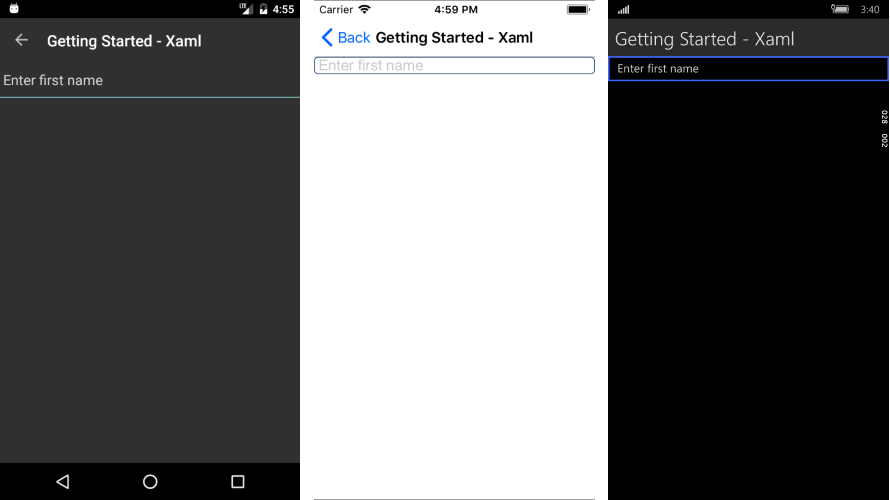
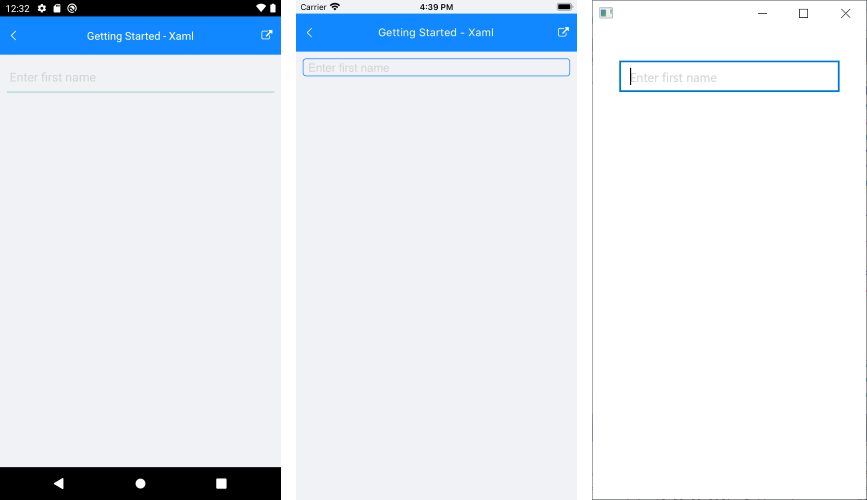
Updated RadEntry docs

diff --git a/controls/entry/entry-text-appearance.md b/controls/entry/entry-text-appearance.md
@@ -1,0 +1,80 @@
+---
+title: Text Appearance
+page_title: .NET MAUI Entry Documentation | Text Appearance
+description: Check our &quot;Text Appearance&quot; documentation article for Telerik Entry for .NET MAUI control.
+position: 2
+slug: entry-text-appearance
+---
+
+# Text Appearance
+
+The purpose of this help article is to show you the key features of the **RadEntry** control related to text appearance. 
+
+## Text
+
+The following properties are related to the Entry Text appearance and alignment:
+
+* **Text**(*string*): Defines the Text;
+* **TextColor**(*Color*): Defines the color of the visible text of the RadEntry control.
+* **VerticalTextAlignment**(*of type Xamarin.Forms.TextAlignment*): Specifies the vertical alignment of the RadEntry.Text;
+* **HorizontalTextAlignment**(*of type Xamarin.Forms.TextAlignment*): Specifies the horizontal alignment of the RadEntry.Text;
+* **Padding**(*Thickness*): Defines the Padding of the text;
+
+## Watermark 
+
+RadEntry exposes **WatermarkText**(*string*) property used to give guidance to the end user on what should be entered in the text input. The watermark text is displayed when the control is empty.  Additionally, you could set **WatermarkTextColor**(*Color*) to customize the look of the watermark text. 
+
+```XAML
+<telerikInput:RadEntry WatermarkText="First Name" 
+					   WatermarkTextColor="#6EA3FF" />
+```
+
+Where:
+
+```XAML
+xmlns:telerikInput="clr-namespace:Telerik.XamarinForms.Input;assembly=Telerik.Maui.Compatibility"
+```
+
+![Entry with Watermark](images/entry_watermark.png)
+
+## Read-Only State
+
+RadEntry control provides a feature which allows you to choose whether the control will be editable or not - Read-Only state.
+
+* **IsReadOnly** *bool* property: Specifies whether the control will be in edit mode. The default value is `False`. If you want to restrict the control from editing, set the `IsReadOnly` to `True`
+
+```XAML
+<telerikInput:RadEntry x:Name="telerikEntry" 
+					   Text="Telerik UI for Xamarin Entry control" 
+					   IsReadOnly="True" />
+```
+
+## Max Length
+
+With RadEntry you can restrict the number of the symbols allowed to be entered in the input field. 
+
+* **MaxLength** (*int*) property: Specifies the maximum number of symbols allowed to be entered.
+
+### Example with MaxLength set to 10
+
+```XAML
+<telerikInput:RadEntry x:Name="telerikEntry" 
+					   WatermarkText="Enter text" 
+					   MaxLength="10" />
+```
+
+## Keyboard
+
+The **Keyboard** property of type *Xamarin.Forms.Keyboard* allows you to define the type of the keyboard that will be visualized by the device.
+
+```XAML
+<telerikInput:RadEntry x:Name="entry" 
+                       Keyboard="Numeric"
+                       WatermarkText="Watermark Text" />
+```
+
+## See Also
+
+- [Text Selection]({%slug entry-text-selection %})
+- [Events]({% slug entry-events%})
+- [Styling]({% slug entry-styling%})

diff --git a/controls/entry/entry-overview.md b/controls/entry/entry-overview.md
@@ -18,15 +18,15 @@ If you are new to RadEntry, see the [Getting Started]({% slug entry-getting-star
 
 ## Key features
 
-* **Watermark**: RadEntry allows you to add a hint text as a placeholder in the control. You can use this text to guide the users what is the expected input. For more details, see the [Key Features]({% slug entry-key-features %}#watermark) article.
-* **Password functionality**: You can hide the characters that users type for privacy and security reasons. For more details, see the [Key Features]({% slug entry-key-features %}#password) article.
+* **Watermark**: RadEntry allows you to add a hint text as a placeholder in the control. You can use this text to guide the users what is the expected input. For more details, see the [Text Appearance]({% slug entry-text-appearance%}#watermark) article.
 * **Keyboard support**: You can add a virtual keyboard and specify its type, for example, `Numeric`.
-* **Non-Editable (Read-Only) state**: Using a single property - `IsReadOnly`, you can specify whether the RadEntry control can be edited or not. Example and explanation can be found in [Key Features - Read-Only State]({%slug entry-key-features%}#read-only-state).
-* You can define the **maximum number of symbols** allowed in the RadEntry control. For detailed explanation and example check the [Key Features - Max Length]({%slug entry-key-features%}#max-length) section.
-* **Border styles**: RadEntry gives you the option to customize the look of the border around the input by using the BorderStyle property. For more details, see the [Key Features]({% slug entry-key-features %}#borderstyle).
+* **Non-Editable (Read-Only) state**: Using a single property - `IsReadOnly`, you can specify whether the RadEntry control can be edited or not. Example and explanation can be found in [Text Appearance - Read-Only State]({%slug entry-text-appearance%}#read-only-state).
+* You can define the **maximum number of symbols** allowed in the RadEntry control. For detailed explanation and example check the [Text Appearance - Max Length]({%slug entry-text-appearance%}#max-length) section.
+* **Border styles**: RadEntry gives you the option to customize the look of the border around the input by using the BorderStyle property. For more details, see the [Styling]({% slug entry-styling%}) topic.
 
 ## See Also
 
 - [Getting Started]({% slug entry-getting-started%})
-- [Key Features]({% slug entry-key-features%})
+- [Text Appearance]({% slug entry-text-appearance%})
+- [Text Selection]({%slug entry-text-selection %})
 - [Events]({% slug entry-events%})

diff --git a/controls/entry/entry-styling.md b/controls/entry/entry-styling.md
@@ -1,0 +1,59 @@
+---
+title: Styling
+page_title: .NET MAUI Entry Documentation | Styling
+description: Check our &quot;Styling&quot; documentation article for Telerik Entry for .NET MAUI control.
+position: 6
+slug: entry-styling
+---
+
+# Styling
+
+## BorderStyle
+
+The **BorderStyle**(*of type Telerik.XamarinForms.Input.BorderStyle*) property allows you to customize the border around the Entry through the following properties: 
+
+* **BorderColor**(*Color*), 
+* **BorderThickness**(*Thickness*) 
+* **CornerRadius**(*double*)
+
+You can define the **BorderStyle** in the Resources of your page as shown in the example below:
+
+```XAML
+<telerikInput:BorderStyle x:Key="EntryBorderStyle" 
+						  BorderThickness="2" 
+						  BorderColor="Red" />
+```
+
+And then apply that Style to the Entry instance:
+
+```XAML
+<telerikInput:RadEntry x:Name="entry" 
+					   WatermarkText="First Name" 
+					   BorderStyle="{StaticResource EntryBorderStyle}"/>
+```
+
+![Entry BorderStyle](images/entry_borderstyle.png)
+
+## Font Options
+
+RadEntry control has the following properties for defining the Font Options:
+
+* **FontAttributes**
+* **FontFamily**
+* **FontSize**
+
+```XAML
+<StackLayout>
+    <telerikInput:RadEntry Text="Normal Text" x:Name="entry"/>
+    <telerikInput:RadEntry Text="Bold Text - Large" FontAttributes="Bold" FontSize="Large" />
+    <telerikInput:RadEntry Text="Italic Text - Medium" FontAttributes="Italic" FontSize="Medium"/>
+    <telerikInput:RadEntry Text="Italic and Bold Text - Small"  FontSize="Small" x:Name="smallEntry"/>
+    <telerikInput:RadEntry Text="Micro Text"  FontSize="Micro" />
+</StackLayout>
+```
+
+## See Also
+
+- [Text Appearance]({% slug entry-text-appearance%})
+- [Text Selection]({%slug entry-text-selection %})
+- [Events]({% slug entry-events%})

diff --git a/controls/entry/entry-text-selection.md b/controls/entry/entry-text-selection.md
@@ -1,0 +1,43 @@
+---
+title: Text Selection
+page_title: .NET MAUI Entry Documentation | Text Selection
+description: Check our &quot;Text Selection&quot; documentation article for Telerik Entry for .NET MAUI control.
+position: 3
+slug: entry-text-selection
+---
+
+# Text Selection
+
+The following properties are related to the Entry text selection: 
+
+* **CursorPosition**(*int*) Specifies the starting position of the text selected in the entry.
+* **SelectionLength**(*int*) Specifies the number of characters in the current selection in the entry control.
+
+The next snippet shows how both could be applied in order to preselect part of the Text of the Entry when the control receives the focus:
+
+```XAML
+<StackLayout Orientation="Horizontal">
+    <telerikInput:RadEntry x:Name="selectEntry" 
+						   Text="select some text" />
+    <telerikInput:RadButton Text="Focus" 
+							Clicked="FocusButtonClicked" />
+</StackLayout>
+```
+
+And the Clicked event handler:
+
+```C#
+private void FocusButtonClicked(object sender, System.EventArgs e)
+{
+    selectEntry.Focus();
+    selectEntry.CursorPosition = 7;
+    selectEntry.SelectionLength = 9;
+}
+```
+
+![Entry Text Selection](images/entry_text_selection.png)
+
+## See Also
+
+- [Events]({% slug entry-events%})
+- [Styling]({% slug entry-styling%})

diff --git a/controls/entry/entry-getting-started.md b/controls/entry/entry-getting-started.md
@@ -10,8 +10,9 @@ slug: entry-getting-started
 
 ## Define RadEntry control
 
-```C#
-var entry = new RadEntry();
+```XAML
+<telerikInput:RadEntry x:Name="entry" 
+					   WatermarkText="Enter first name"/>
 ```
 
 In addition to this you need to add the following namespace:
@@ -40,6 +41,6 @@ Here is the result:
 
 ## See Also
 
-- [Key Features]({% slug entry-key-features%})
+- [Text Appearance]({% slug entry-text-appearance%})
 - [Events]({% slug entry-events%})
-- [Styling]({% slug entry-theming-style%})
+- [Styling]({% slug entry-styling%})

diff --git a/controls/entry/entry-events.md b/controls/entry/entry-events.md
@@ -2,7 +2,7 @@
 title: Events
 page_title: .NET MAUI Entry Documentation | Events
 description: Check our &quot;Events&quot; documentation article for Telerik Entry for .NET MAUI control.
-position: 3
+position: 5
 slug: entry-events
 ---
 
@@ -58,4 +58,4 @@ private void Entry_Completed(object sender, EventArgs e)
 ## See Also
 
 - [Entry Getting Started]({% slug entry-getting-started%})
-- [Entry Theming and Style]({% slug entry-theming-style%})
+- [Entry Styling]({% slug entry-styling%})
